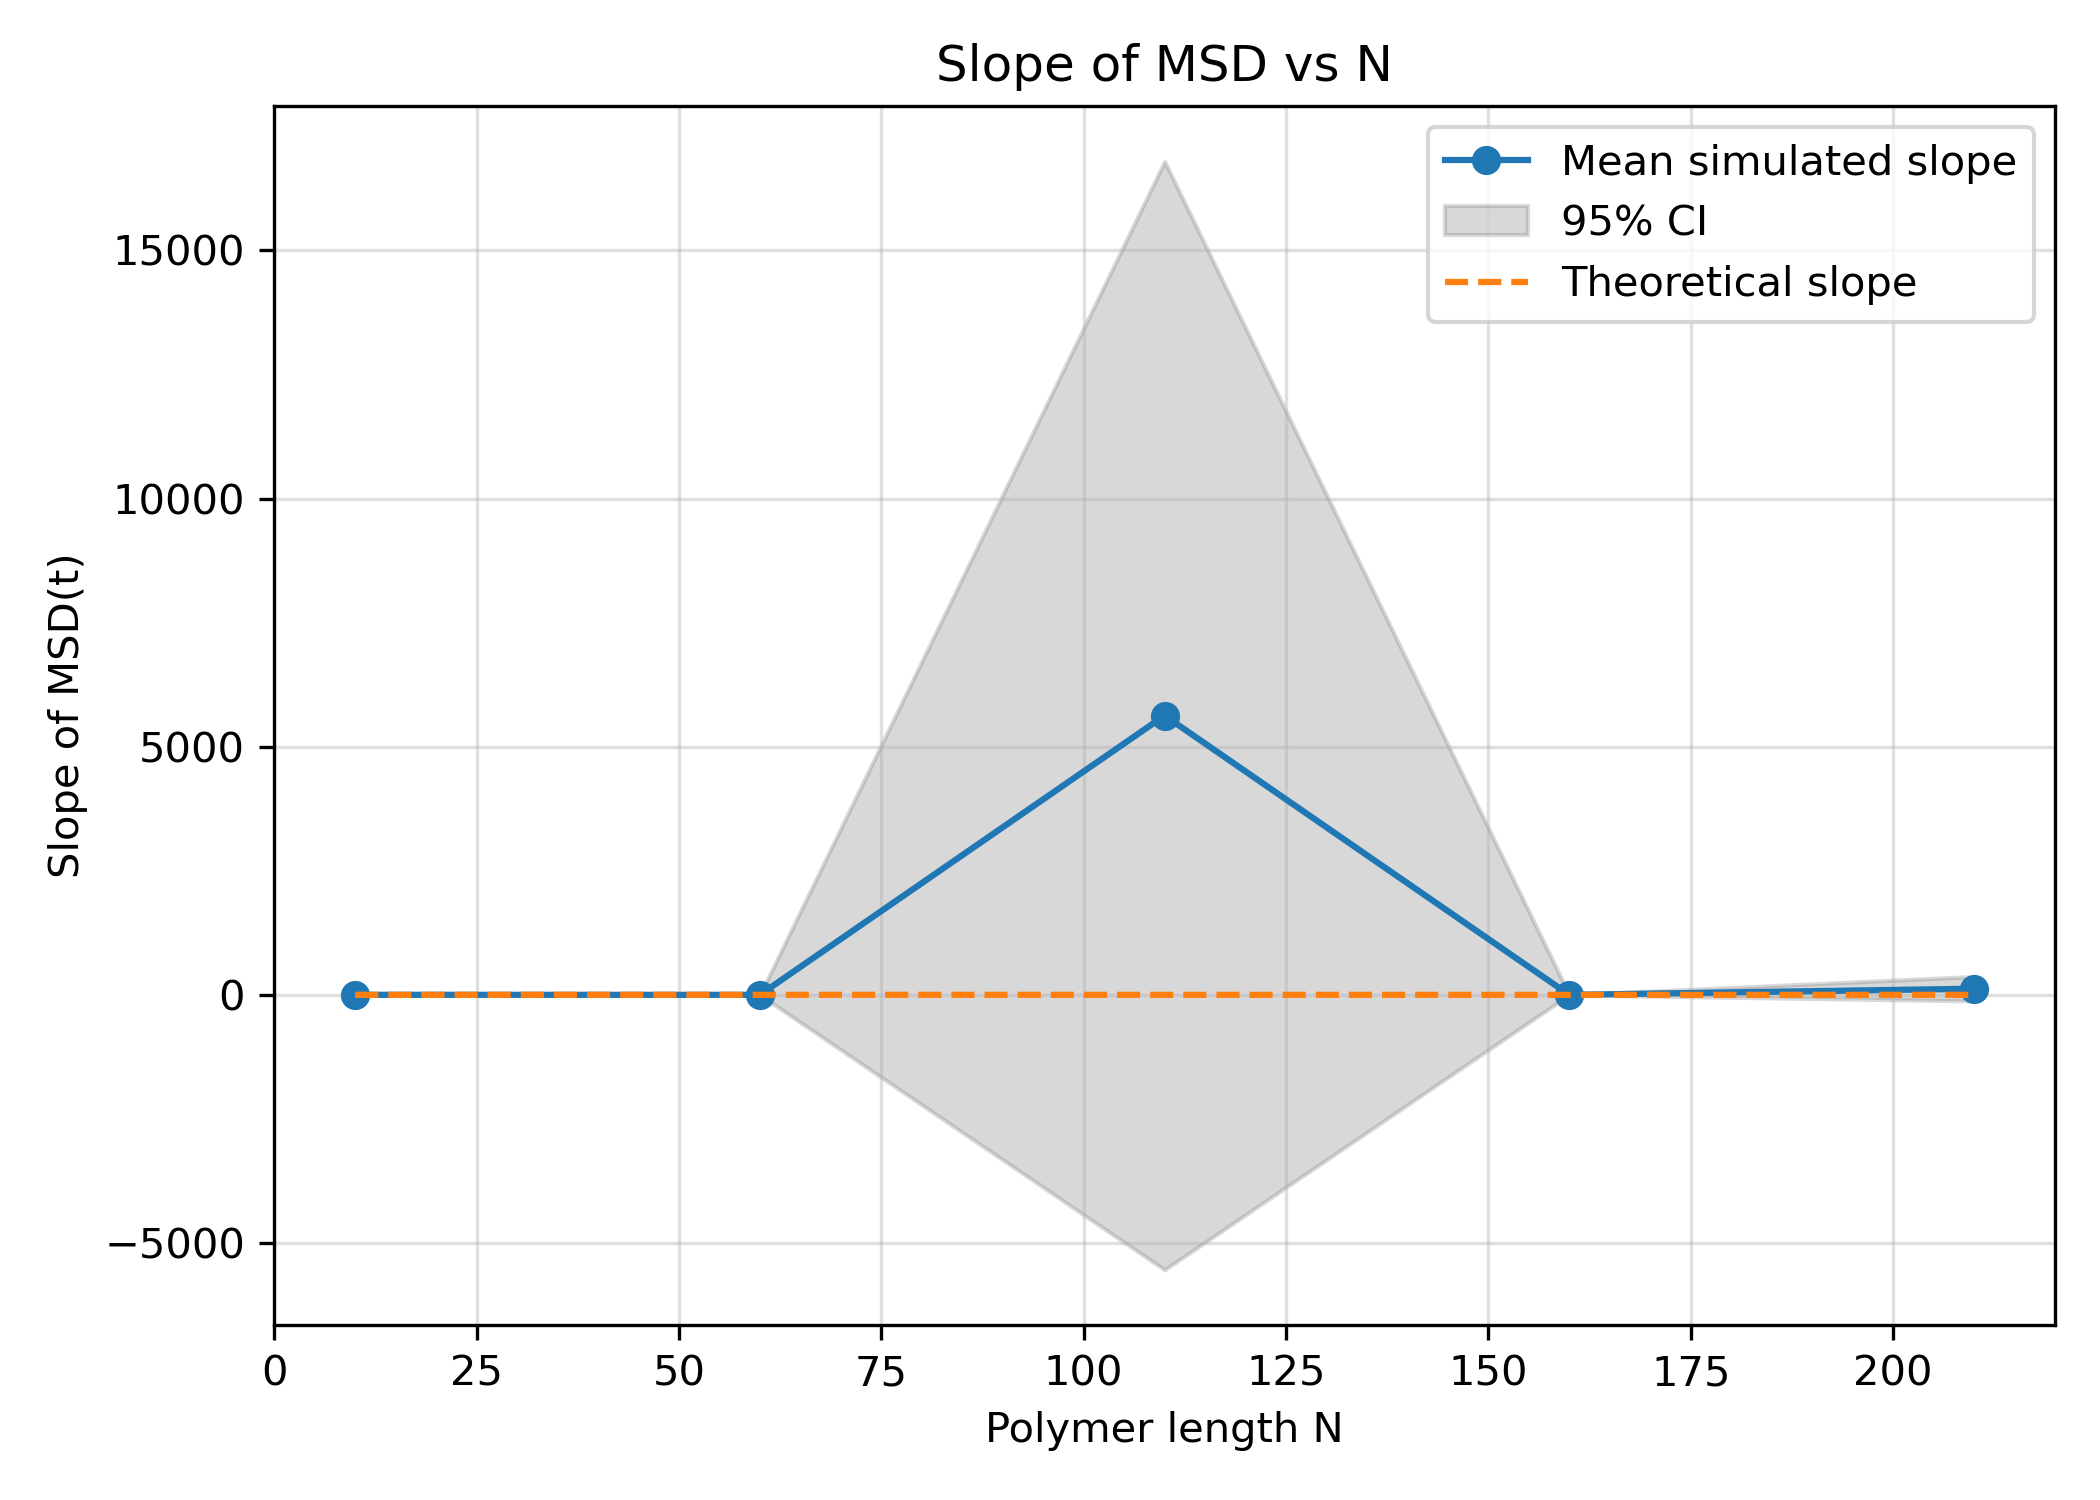
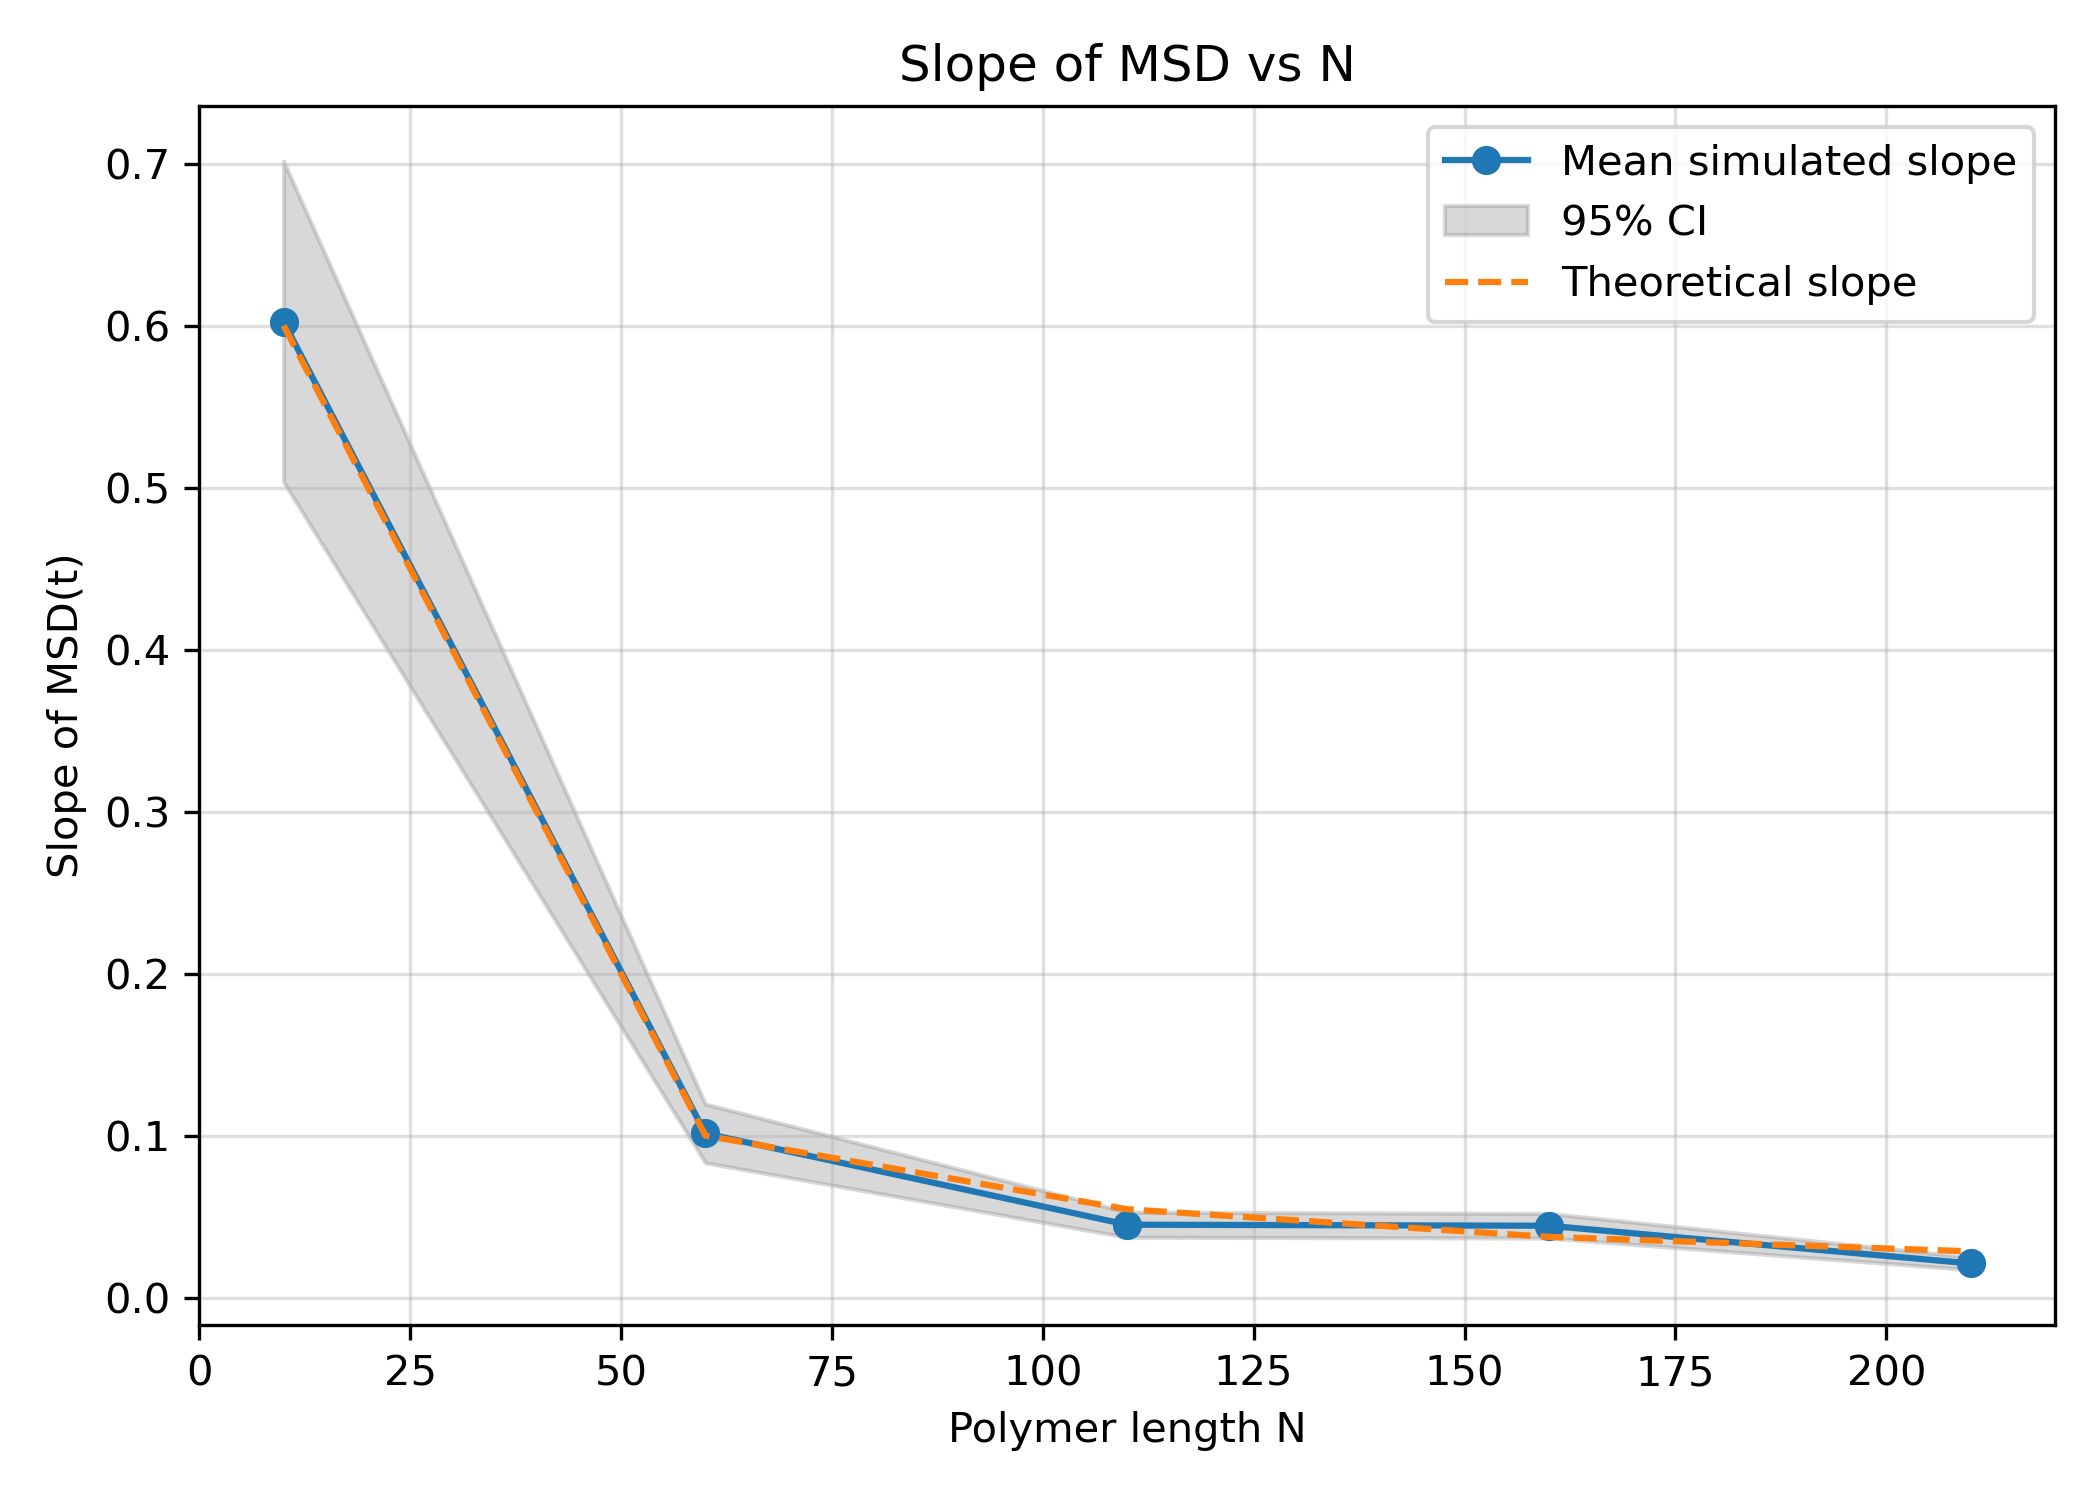
small fix

diff --git a/assignment_3/polymer_engine.py b/assignment_3/polymer_engine.py
@@ -435,7 +435,7 @@ def mala_step(
         return pos_current, [e_h, e_lj]
 
 
-def initial_positions2(N: int, d0: float):
+def initial_positions_old(N: int, d0: float):
     positions = np.zeros((N, 3))
     for j in range(1, N):
         displacement = np.random.randn(3)
@@ -547,11 +547,13 @@ def MC_MSD(pos_start: np.ndarray, pos_t: np.ndarray) -> float:
 
 
 def two_sides_test(sample: list, theoretical_value: float, alpha: float = 0.05) -> bool:
-    t_crit = stats.t.ppf(q=1 - alpha / 2, df=len(sample) - 1)
+    t_crit = stats.t.ppf(q=1 - alpha / 2, df=len(sample))
     t_stat = (np.mean(sample) - theoretical_value) / (
         np.std(sample) / np.sqrt(len(sample))
     )
-    return abs(t_stat) < t_crit
+    print(t_crit, len(sample), np.mean(sample))
+    reject = abs(t_stat) < t_crit
+    return not reject
 
 
 def diffusion_fit_plot(
@@ -1023,30 +1025,34 @@ def energy_langevin_plot(
 ):
     # average_energy = np.zeros((steps, 2))
     positions = initial_positions(N, d0)
-    _, energy = simulate(
-        positions,
-        steps=steps,
-        d0=d0,
-        epsilon=epsilon,
-        sigma=sigma,
-        gamma=gamma,
-        k=k,
-        k_B=k_B,
-        T=T,
-        dt=dt,
-        ideal_chain=ideal_chain,
-    )
-    # average_energy[:, 0] += energy[:, 0]
-    # average_energy[:, 1] += energy[:, 1]
+    average_he = np.zeros(steps)
+    average_lje = np.zeros(steps)
+
+    for r in tqdm(range(reps)):
+        _, energy = simulate(
+            positions,
+            steps=steps,
+            d0=d0,
+            epsilon=epsilon,
+            sigma=sigma,
+            gamma=gamma,
+            k=k,
+            k_B=k_B,
+            T=T,
+            dt=dt,
+            ideal_chain=ideal_chain,
+        )
+        average_he += energy[:, 0]
+        average_lje += energy[:, 1]
 
     t = np.linspace(dt, dt * steps, steps)
 
-    plt.plot(t, energy[:, 0], label="Harmonic Energy")
-    plt.plot(t, energy[:, 1], label="LJ Energy")
+    plt.plot(t, average_he / reps, label="Harmonic Energy")
+    plt.plot(t, average_lje / reps, label="LJ Energy")
     plt.grid(alpha=0.4)
     plt.plot(
         t,
-        (energy[:, 0] + energy[:, 1]),
+        (average_he + average_lje) / reps,
         color="red",
         ls="--",
         label="Total Energy",
@@ -1056,6 +1062,11 @@ def energy_langevin_plot(
     plt.close()
     print(energy[:, 0][:10])
     print(energy[:, 1][:10])
+
+
+# ================================================================
+# Example run
+# ================================================================
 
 
 # ================================================================
@@ -1074,23 +1085,23 @@ if __name__ == "__main__":
     # it plots ee radius over time, with theroetical value
 
     steps = 1000
-    reps = 200
+    reps = 100
     N = 50
     # warm_up(N, steps, reps)
 
     # for ideal chain: computes R_ee letting N vary, plus fit
     N_list = np.linspace(10, 210, 50, dtype=int)
-    # data_varying_N(N_list, steps, reps, ideal_chain=True)
+    data_varying_N(N_list, steps, reps, ideal_chain=True)
 
     # introducing LJ potential, see how diffusion constant changes with N plus fit
-    # data_varying_N(N_list, steps, reps, ideal_chain=False)
+    data_varying_N(N_list, steps, reps, ideal_chain=False)
 
     N, steps, reps = 20, 10000, 200
     # diffusion(N, steps, reps, fit=True, plot3D=True, plotXYZ=True)
 
     # plot energy Langevin
     N, steps, reps = 20, 10000, 1
-    energy_langevin_plot(N, steps, reps)
+    # energy_langevin_plot(N, steps, reps)
 
     FULL_SIM = False
 
